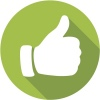
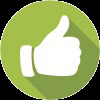
Fix #66. fixed hoverlayer styling with background-image

diff --git a/chrome-extension/src/pages/popup/containers/Workspaces/Structures/Table/TableCell/RegularCell/RatingLayer/RatingLayer.js b/chrome-extension/src/pages/popup/containers/Workspaces/Structures/Table/TableCell/RegularCell/RatingLayer/RatingLayer.js
@@ -4,6 +4,10 @@ import styles from './RatingLayer.css';
 
 import ThumbV1 from '../../../../../../../../../../../shared-components/src/components/UI/Thumbs/ThumbV1/ThumbV1';
 import InfoIcon from '../../../../../../../../../../../shared-components/src/components/UI/Thumbs/InfoIcon/InfoIcon';
+import { thumbUpSrc } from '../../../../../../../../../../../shared-components/src/components/UI/Thumbs/ThumbV1/ThumbV1';
+import { thumbDownSrc } from '../../../../../../../../../../../shared-components/src/components/UI/Thumbs/ThumbV1/ThumbV1';
+import { infoIconSrc } from '../../../../../../../../../../../shared-components/src/components/UI/Thumbs/InfoIcon/InfoIcon';
+
 import * as FirestoreManager from '../../../../../../../../../../../shared-components/src/firebase/firestore_wrapper';
 
 // dnd stuff
@@ -112,19 +116,37 @@ class RatingLayer extends Component {
     let { ratingType, cell, pieces, annotation_selected } = this.props;
 
     let backdropColor = 'fff';
-    let icon = <InfoIcon />;
+    // let icon = <InfoIcon />;
+    // switch (ratingType) {
+    //   case RATING_TYPES.positive:
+    //     backdropColor = '#ABEBC6';
+    //     icon = <ThumbV1 type={'up'} />;
+    //     break;
+    //   case RATING_TYPES.negative:
+    //     backdropColor = '#F5B7B1';
+    //     icon = <ThumbV1 type={'down'} />;
+    //     break;
+    //   case RATING_TYPES.info:
+    //     backdropColor = '#FCE500';
+    //     icon = <InfoIcon />;
+    //     break;
+    //   default:
+    //     break;
+    // }
+
+    let icon = infoIconSrc;
     switch (ratingType) {
       case RATING_TYPES.positive:
         backdropColor = '#ABEBC6';
-        icon = <ThumbV1 type={'up'} />;
+        icon = thumbUpSrc;
         break;
       case RATING_TYPES.negative:
         backdropColor = '#F5B7B1';
-        icon = <ThumbV1 type={'down'} />;
+        icon = thumbDownSrc;
         break;
       case RATING_TYPES.info:
         backdropColor = '#FCE500';
-        icon = <InfoIcon />;
+        icon = infoIconSrc;
         break;
       default:
         break;
@@ -143,7 +165,28 @@ class RatingLayer extends Component {
             opacity: !annotation_selected && isOver ? 1 : null
           }}
         >
-          <div style={{ width: '95%', marginTop: '5px' }}>{icon}</div>
+          <div
+            style={{
+              width: '95%',
+              height: '100%',
+              paddingTop: '5px',
+              boxSizing: 'border-box'
+            }}
+          >
+            {/* icon */}
+            <div
+              // https://stackoverflow.com/questions/9994493/scale-image-to-fit-a-bounding-box/10016640#10016640
+              style={{
+                backgroundColor: 'transparent',
+                backgroundImage: `url(${icon})`,
+                backgroundRepeat: 'no-repeat',
+                backgroundPositionX: 'center',
+                backgroundSize: 'contain',
+                height: '100%',
+                width: '100%'
+              }}
+            />
+          </div>
         </div>
       </div>
     );

diff --git a/shared-components/src/components/UI/Thumbs/ThumbV1/ThumbV1.js b/shared-components/src/components/UI/Thumbs/ThumbV1/ThumbV1.js
@@ -1,8 +1,8 @@
 /* global chrome */
 import React from 'react';
 
-import ThumbUp from '../../../../assets/images/thumb-up-100.jpg';
-import ThumbDown from '../../../../assets/images/thumb-down-100.jpg';
+import ThumbUp from '../../../../assets/images/thumb-up-100.png';
+import ThumbDown from '../../../../assets/images/thumb-down-100.png';
 
 const thumbV1 = props => {
   const { type } = props;
@@ -18,13 +18,25 @@ const thumbV1 = props => {
       src={type === 'up' ? srcUp : srcDown}
       alt="thumb"
       style={{
-        width: '100%',
-        height: '100%',
+        maxWidth: '100%',
+        maxHeight: '100%',
+        width: 'auto',
+        height: 'auto',
         borderRadius: '50%',
         display: 'inline'
       }}
     />
   );
 };
+
+export const thumbUpSrc =
+  window.chrome !== undefined && chrome.extension !== undefined
+    ? chrome.extension.getURL(ThumbUp)
+    : ThumbUp;
+
+export const thumbDownSrc =
+  window.chrome !== undefined && chrome.extension !== undefined
+    ? chrome.extension.getURL(ThumbDown)
+    : ThumbDown;
 
 export default thumbV1;

diff --git a/shared-components/src/components/UI/Thumbs/InfoIcon/InfoIcon.js b/shared-components/src/components/UI/Thumbs/InfoIcon/InfoIcon.js
@@ -1,7 +1,7 @@
 /* global chrome */
 import React from 'react';
 
-import InfoIcon from '../../../../assets/images/info-100.jpg';
+import InfoIcon from '../../../../assets/images/info-100.png';
 
 const infoIcon = props => {
   let src = InfoIcon;
@@ -14,13 +14,20 @@ const infoIcon = props => {
       src={src}
       alt="info-icon"
       style={{
-        width: '100%',
-        height: '100%',
+        maxWidth: '100%',
+        maxHeight: '100%',
+        width: 'auto',
+        height: 'auto',
         borderRadius: '50%',
         display: 'inline'
       }}
     />
   );
 };
+
+export const infoIconSrc =
+  window.chrome !== undefined && chrome.extension !== undefined
+    ? chrome.extension.getURL(InfoIcon)
+    : InfoIcon;
 
 export default infoIcon;
